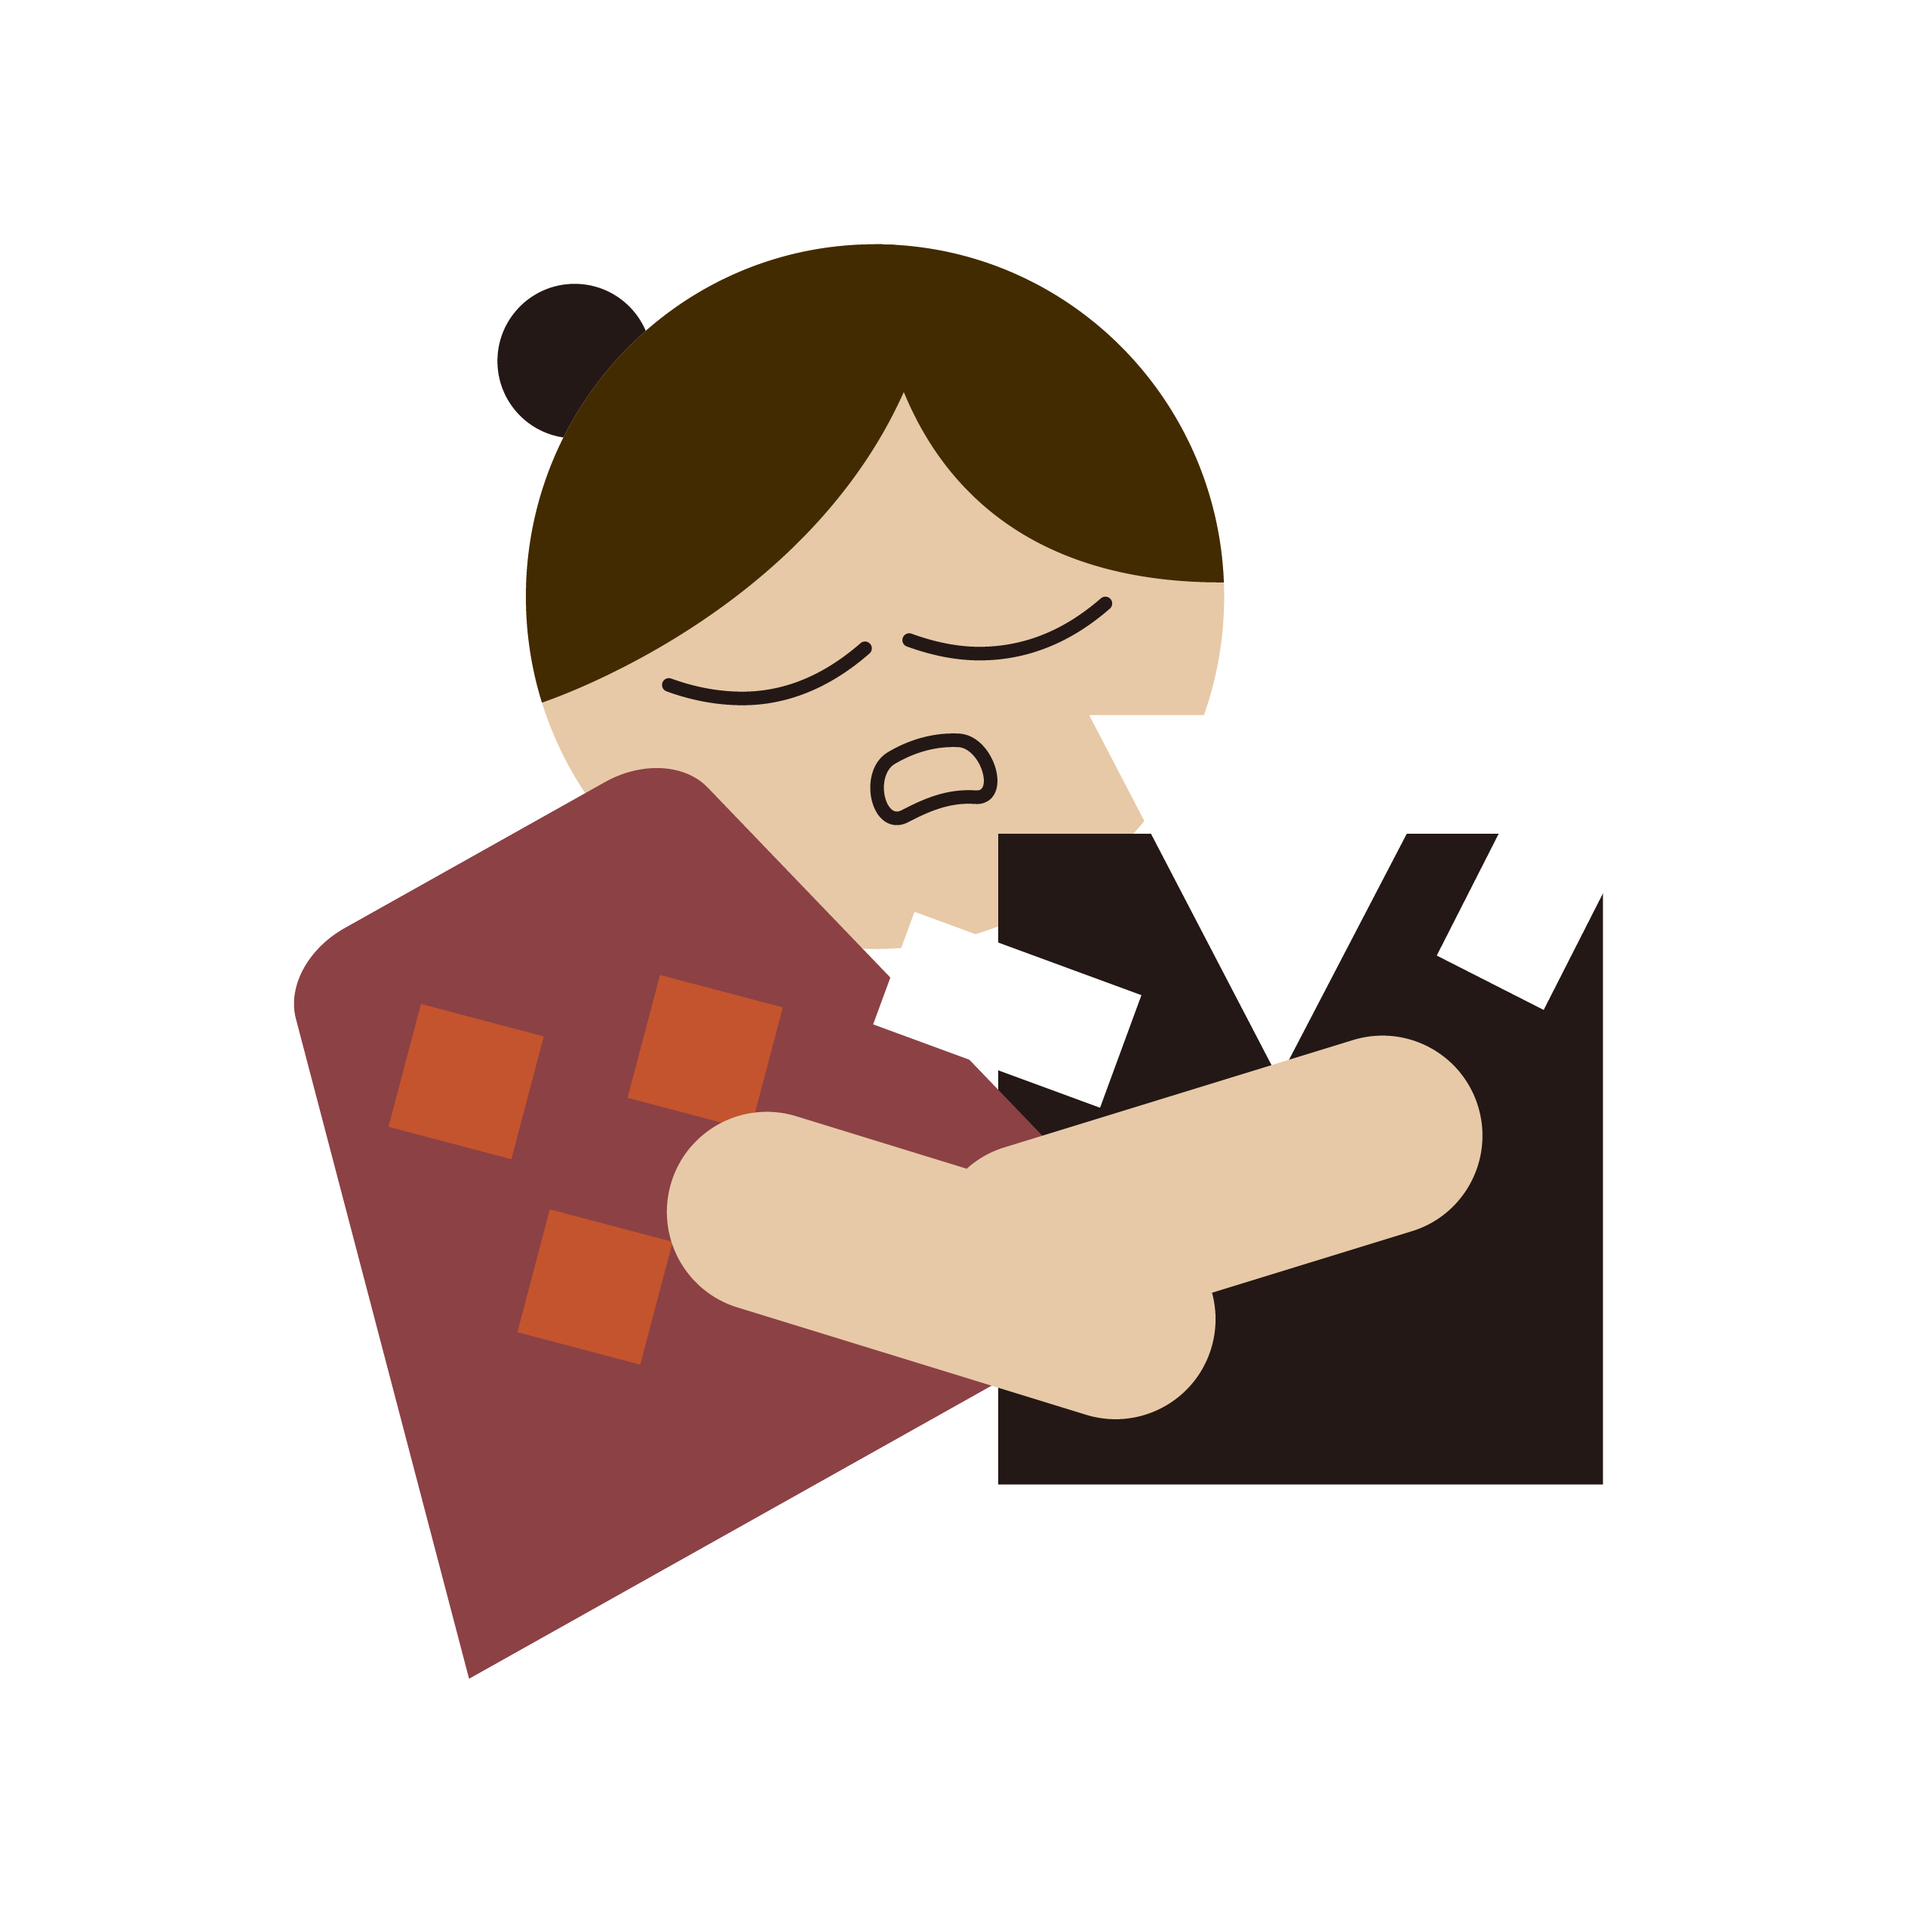
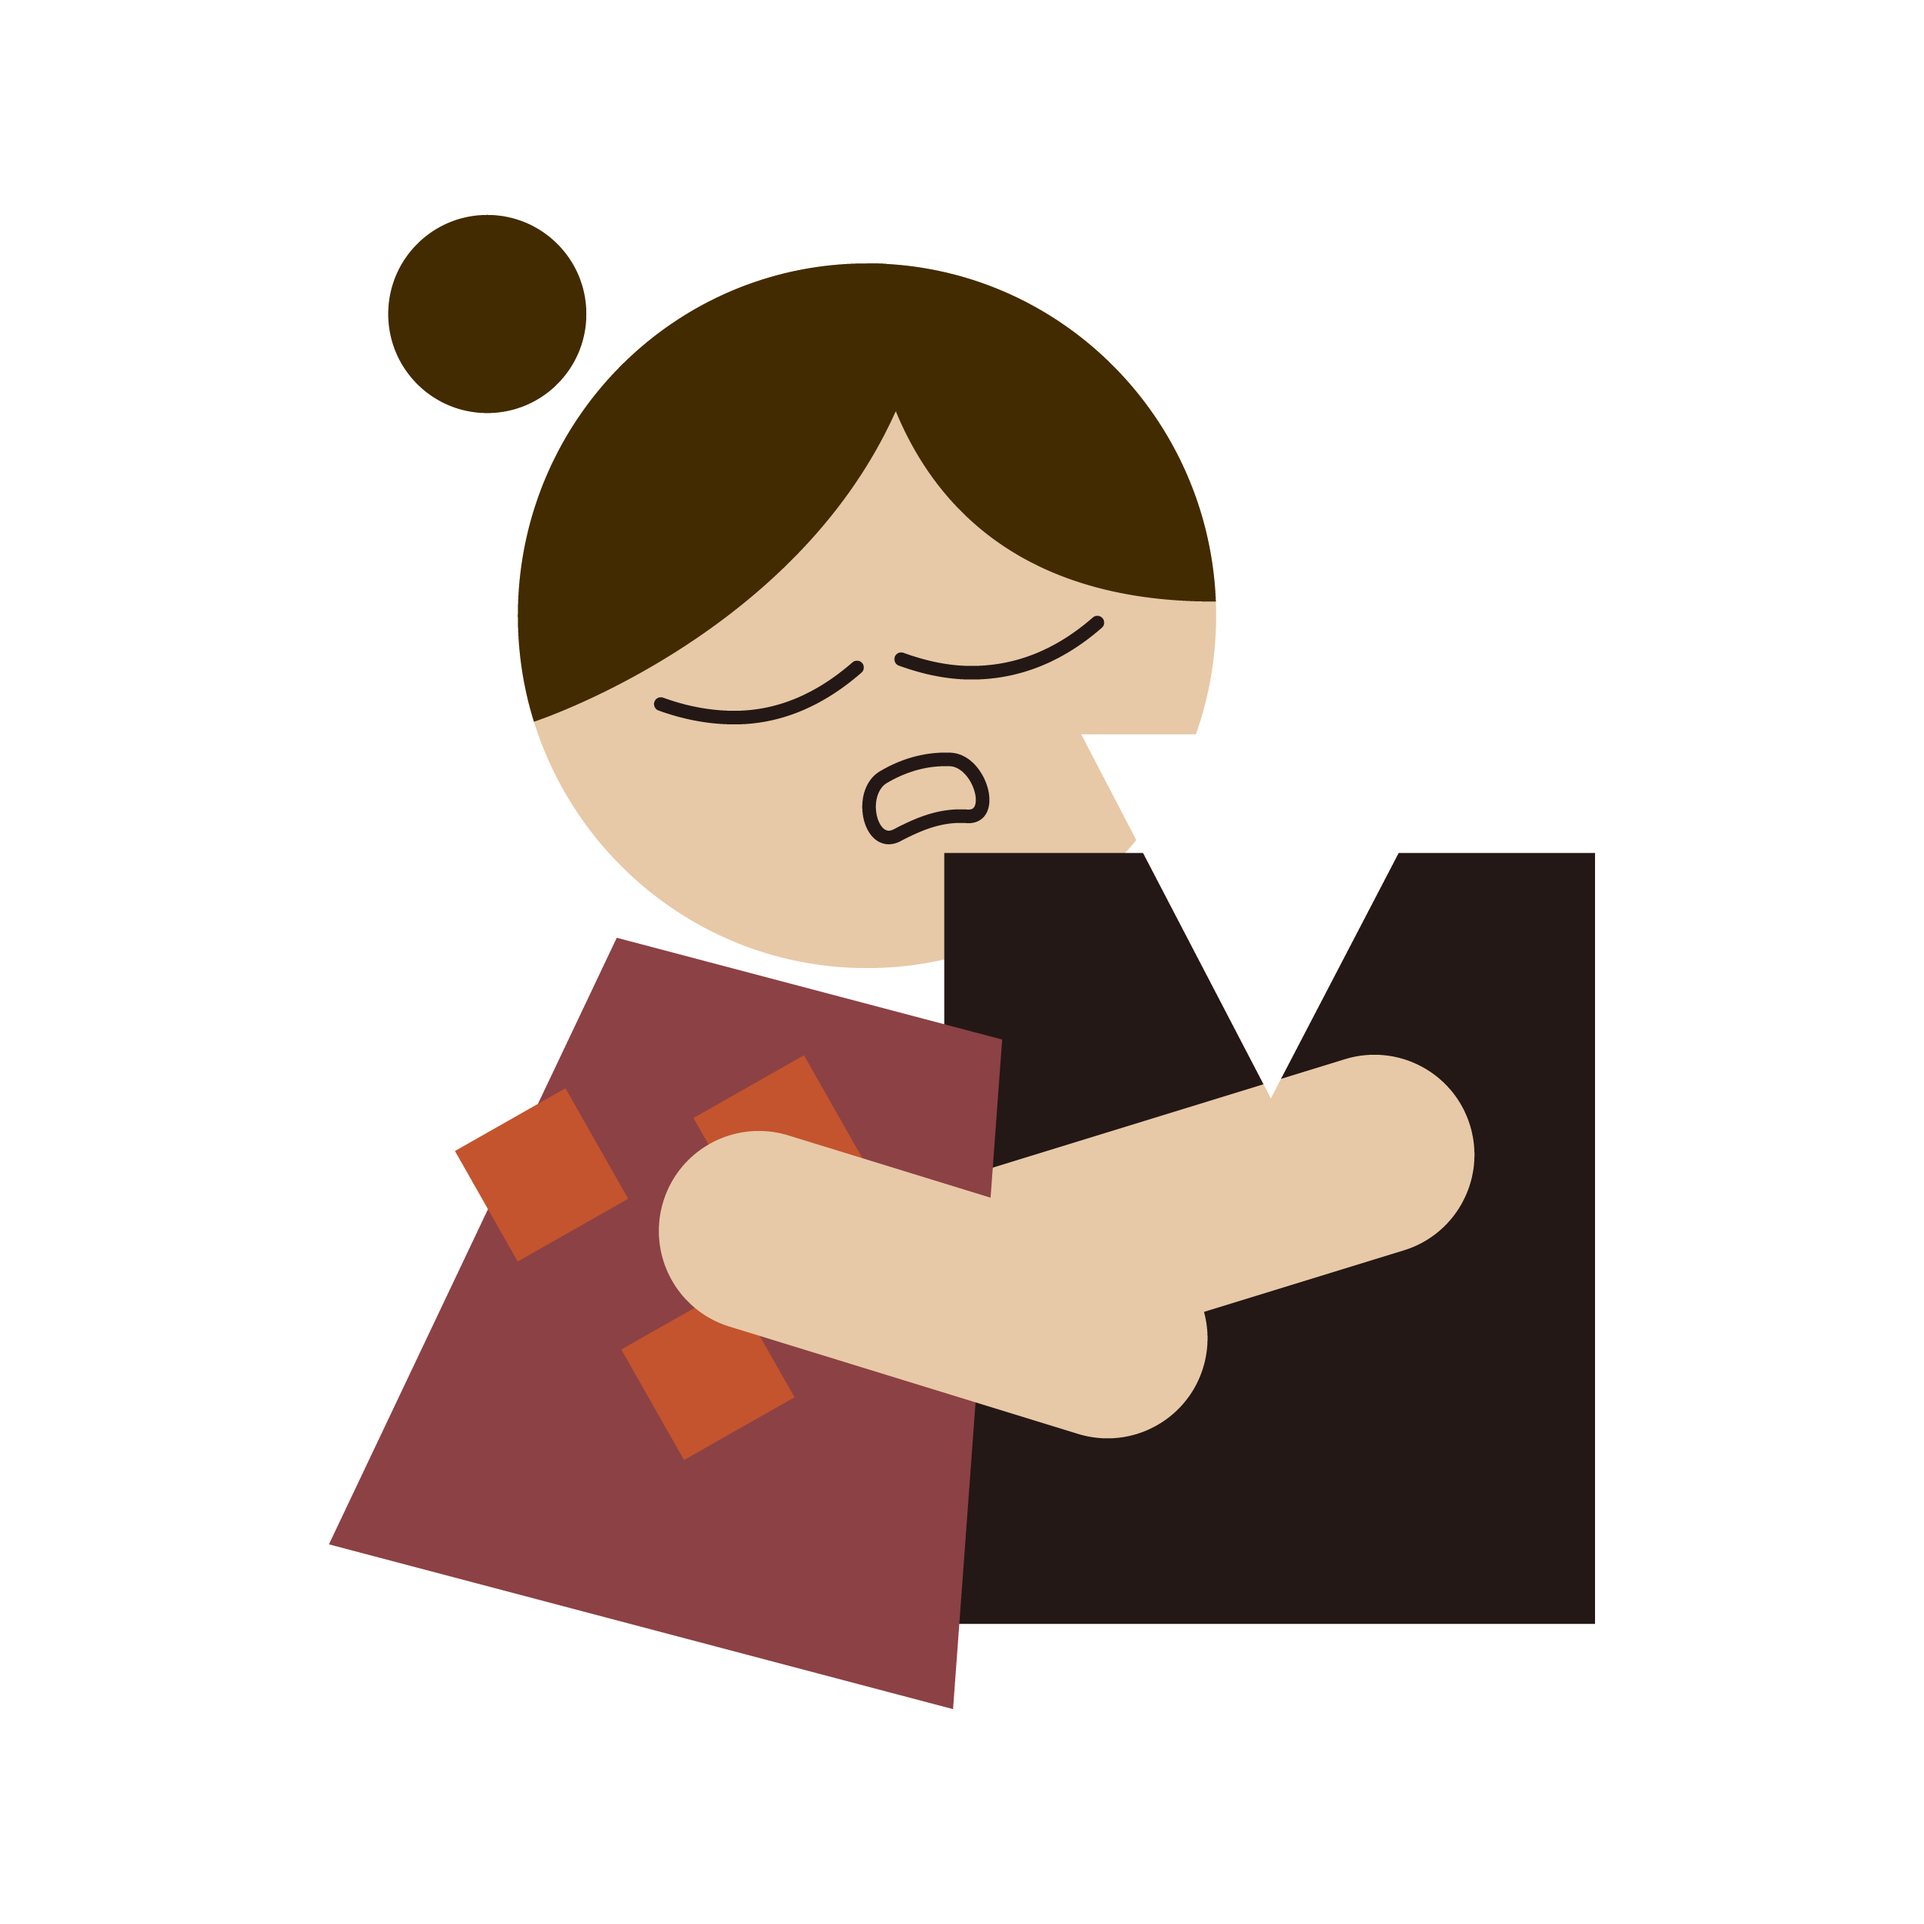
man

diff --git a/entry4.html b/entry4.html
@@ -76,6 +76,10 @@ a {
   from { width: 0}
 }
 
+.image-wrapper {
+    text-align: right;
+   }
+   
 </style>
 </head>
 
@@ -94,6 +98,9 @@ a {
   take notes, while his left supports the book. He looks down on the book,<br>
   fully absorbed in the text before him. </p>
 
+  <div class="image-wrapper">
+    <img src="images/png2.png" alt="A Middle-Aged Man" height="500">
+  </div>
 
 </div> 
 </html>
